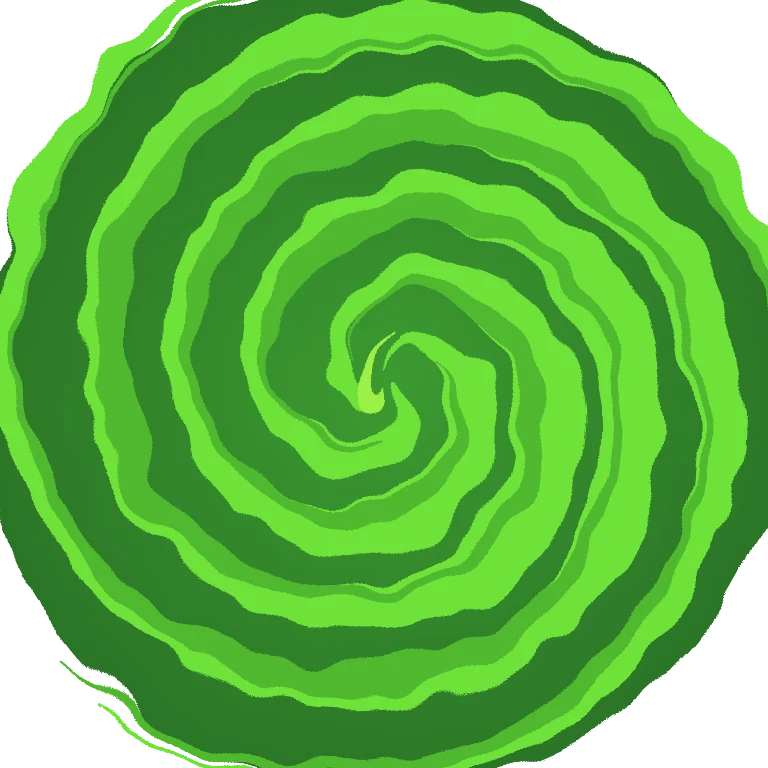
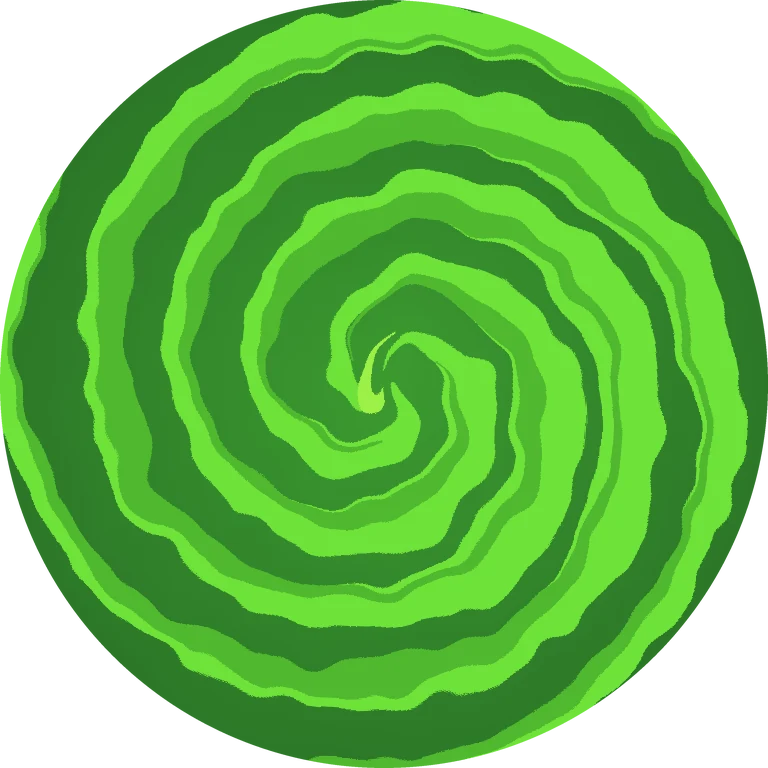
fix portal in firefox v2

diff --git a/js/portal.js b/js/portal.js
@@ -152,6 +152,14 @@
         return '<img alt="" width="768" height="768" draggable="false" decoding="async" src="assets/portal/swirl-' + name + '.webp">';
     }
 
+    function rimImgs() {
+        var out = '', i;
+        for (i = 0; i < 6; i++) {
+            out += '<img alt="" draggable="false" decoding="async" style="--i:' + i + '" src="assets/portal/rim-' + i + '.webp">';
+        }
+        return out;
+    }
+
     function build() {
         return '<div class="portal-aura"></div>' +
             '<div class="portal-body">' +
@@ -159,7 +167,7 @@
             '<div class="portal-swirl-spin spin-a">' + swirlImg('main') + '</div>' +
             '<div class="portal-swirl-spin spin-b">' + swirlImg('light') + '</div>' +
             '</div>' +
-            '<div class="portal-layer portal-rim">' + rim() + '</div>' +
+            '<div class="portal-layer portal-rim">' + rimImgs() + '</div>' +
             '<div class="portal-layer portal-sparkles">' + sparkles() + '</div>' +
             '</div>';
     }

diff --git a/css/portal-style.css b/css/portal-style.css
@@ -16,7 +16,6 @@
     height:112%;
     border-radius:50%;
     background:radial-gradient(ellipse,rgba(120,255,70,.5) 0,rgba(60,210,60,.22) 38%,transparent 66%);
-    filter:blur(26px);
     animation:aura-pulse 4s ease-in-out infinite;
 }
 
@@ -75,8 +74,6 @@
     top:21.43%;
     width:48%;
     height:57.14%;
-    border-radius:50%;
-    overflow:hidden;
 }
 
 .portal-swirl-spin{
@@ -98,6 +95,25 @@
 }
 
 .portal-rim,.portal-sparkles{pointer-events:none}
+
+/* кольцо: 6 заранее отрендеренных кадров «кипения», переключаются по очереди */
+.portal-rim img{
+    position:absolute;
+    inset:0;
+    display:block;
+    width:100%;
+    height:100%;
+    opacity:0;
+    animation:rim-frame 3s infinite;
+    animation-timing-function:steps(1,end);
+    animation-delay:calc(var(--i) * .5s);
+}
+
+@keyframes rim-frame{
+    0%{opacity:1}
+    16.666%{opacity:0}
+    100%{opacity:0}
+}
 
 /* мерцание брызг */
 .sparkle{

diff --git a/index.html b/index.html
@@ -15,7 +15,7 @@
     <link rel="stylesheet" href="css/root-style.css">
     <link rel="stylesheet" href="css/header-style.css">
     <link rel="stylesheet" href="css/intro-style.css">
-    <link rel="stylesheet" href="css/portal-style.css?v=4">
+    <link rel="stylesheet" href="css/portal-style.css?v=5">
     <link rel="stylesheet" href="css/collection-style.css">
     <link rel="stylesheet" href="css/cookies-style.css">
     <script type="importmap">
@@ -109,7 +109,7 @@
         <a href="cookies.html">Политика cookies</a>
     </footer>
     <script type="module" src="js/shop.js?v=4"></script>
-    <script src="js/portal.js?v=4" defer></script>
+    <script src="js/portal.js?v=5" defer></script>
     <script src="js/loader.js?v=3"></script>
     <script src="js/cookies.js" defer></script>
     <script src="js/egg.js?v=2" defer></script>
